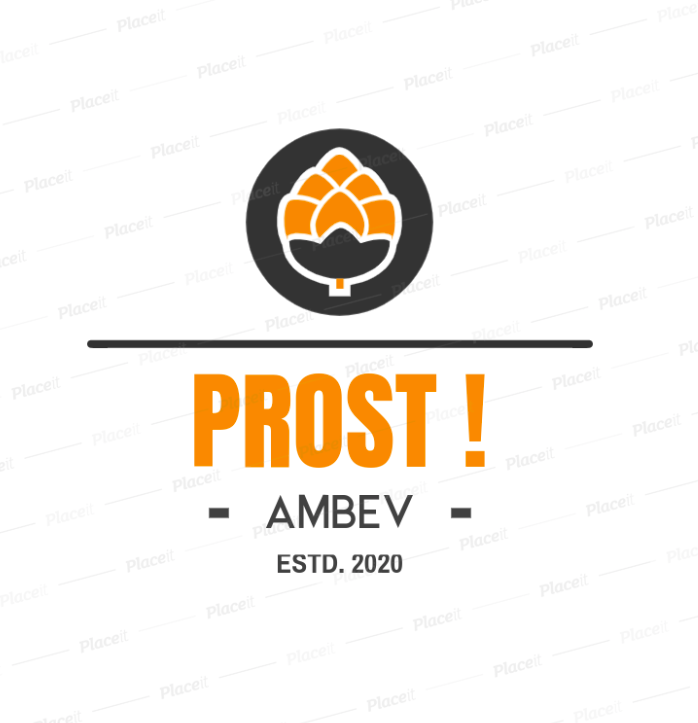
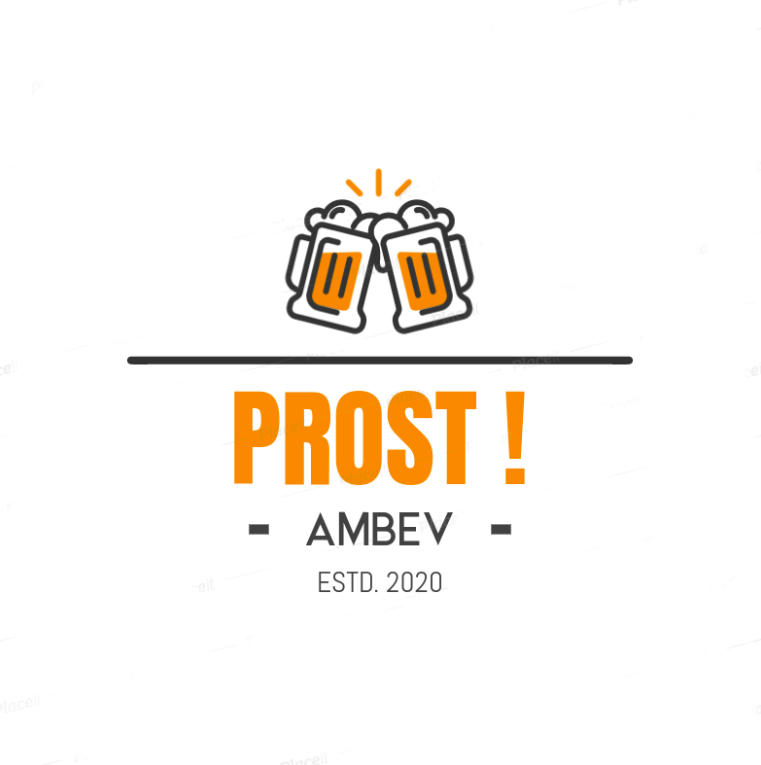
Imagens alteradas e button

Changed region(s): [[0.1203, 0.1521, 0.8424, 0.7911], [0.3009, 0.6999, 0.3309, 0.7303]]

diff --git a/src/pages/main.js b/src/pages/main.js
@@ -1,7 +1,7 @@
 import React from 'react';
 import { Link } from 'react-router-dom';
 import '../CSS/main.css';
-import image from '../images/image.png';
+import image from '../images/image.jpg';
 
 const Main = () => {
   return (
@@ -16,14 +16,14 @@ const Main = () => {
         <p>
           Clique em COMEÇAR e agende seu pedido
         </p>
-        <button type="button">
-          <Link to={`/agendamento`}>
+        <button type="button" className="button">
+          <Link className="linkbtn" to={`/agendamento`}>
             Começar!
           </Link>
         </button>
       </div>
-      <div>
-        <img alt="Imagem" src={image} />
+      <div className="imagem">
+        <img alt="imagem"  src={image} />
       </div>
 
     </div>

diff --git a/src/CSS/main.css b/src/CSS/main.css
@@ -12,3 +12,17 @@
   color: white;
   padding: 5%;
 }
+
+.imagem {
+    padding: 2%;
+}
+
+.button {
+    border-radius: 0%;
+    border: 0px;
+    padding: 5%;
+}
+
+.linkbtn {
+    text-decoration: none;
+} 
